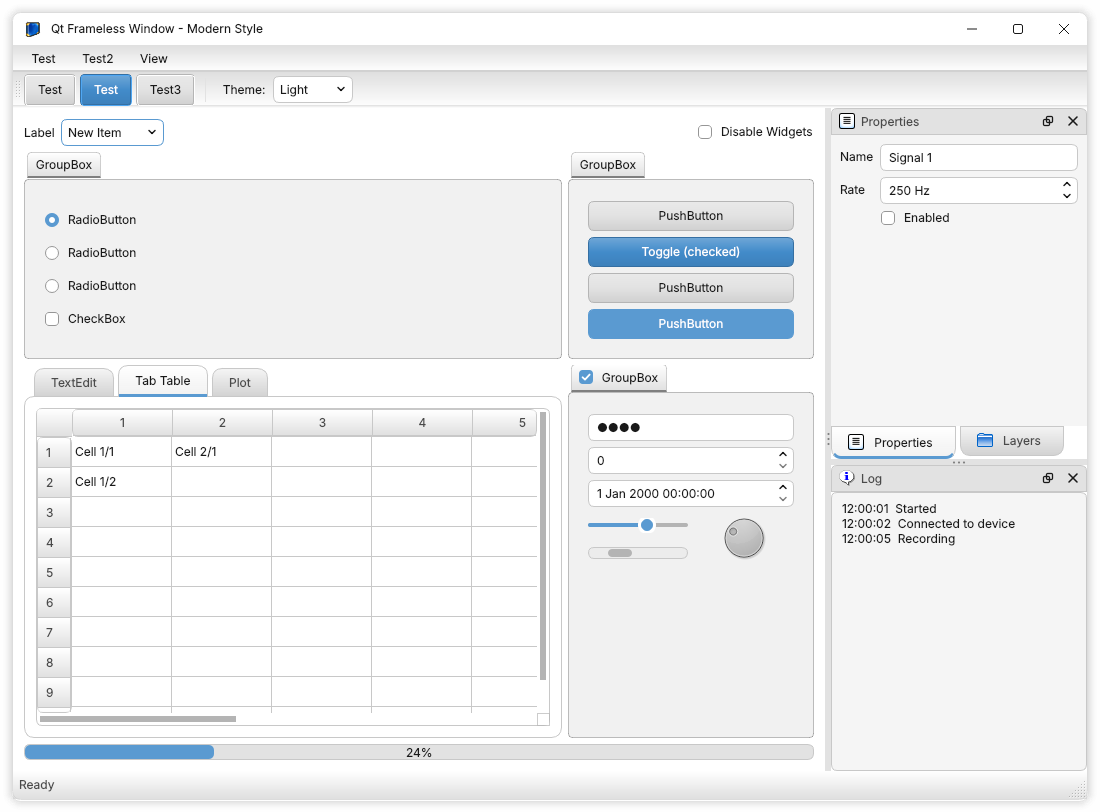
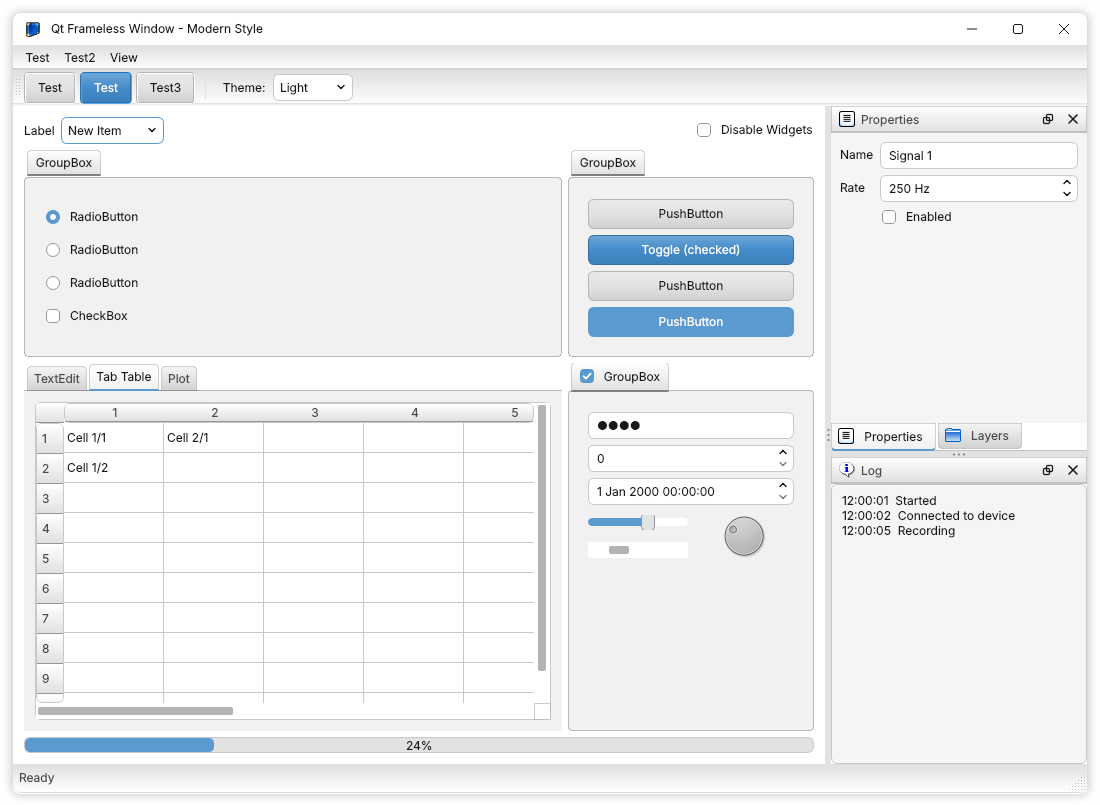
Match the application's dark style sheet more closely (with light versions)
The rules without an object name from the dark sheet, values as given for
dark, matching ones for light:
- Status bar: the top-down band. Menu bar items: padding 3px 4px, white
  text when hovered, highlight + darker side edges when open.
- Menus: square, palette(window) with a palette(shadow) border, item
  padding 3px 25px, highlight with a light-blue edge on the selected item,
  shaded disabled items, 18 px indicators, band behind checked icons.
- Tabs: 4 px corners, padding 4px 6px, band fills, 2 px highlight line
  under the selected tab (grey when disabled), unselected 2 px lower; pane
  and tab bar with a soft top/bottom line; tab bar at 3px/1px.
- Dock title bars (Qt's and DockTitleBar): the band with a 2 px edge;
  Qt's title buttons positioned as in the sheet.
- Trees/tables: alternate rows in the window colour, branch background
  base, disabled selection rgb(80,80,80); headers with a palette(dark)
  bottom line and 5 px side padding.
- Scroll bars: 16 px, base track, 2 px corners, handle margins as given,
  highlight on hover (handle kept in the lighter @groove grey).
- Sliders: rounded grey handle with a dark border, highlight left of it,
  base right of it, highlight on hover.
- Check boxes / radio buttons 18 px; dock separator 6 x 5 px.
Also fixes the tab pane's see-through fill being overridden.

Claude-Session: https://claude.ai/code/session_01Kn14e4JxntSWfujh7GdBDb

diff --git a/modernstyle/modernstyle.cpp b/modernstyle/modernstyle.cpp
@@ -224,6 +224,16 @@ QHash<QString, QString> themeFills(bool dark, const QHash<QString, QColor> &c)
         f["menuBarItemEdge"] = QStringLiteral("rgba(150, 150, 150, 160)");
     }
     f["checkedText"] = QStringLiteral("#ffffff");
+    // More values from the application's dark style sheet, with light
+    // counterparts
+    f["menuBorder"] = dark ? QStringLiteral("rgb(20, 20, 20)") : QStringLiteral("rgb(200, 200, 200)");   // palette(shadow) / Mid
+    f["menuSelectedEdge"] = QStringLiteral("rgba(147, 191, 236, 127)");
+    f["menuDisabledFill"] = dark ? QStringLiteral("rgba(35, 35, 35, 127)") : QStringLiteral("rgba(226, 226, 226, 127)");
+    f["pressedEdge"] = dark ? QStringLiteral("rgba(25, 25, 25, 127)") : QStringLiteral("rgba(25, 25, 25, 60)");
+    f["softLine"] = dark ? QStringLiteral("rgba(25, 25, 25, 50%)") : QStringLiteral("rgba(25, 25, 25, 25%)");      // tab bar / pane edge
+    f["tabSelectedEdge"] = dark ? QStringLiteral("rgba(66, 66, 66, 75%)") : QStringLiteral("rgba(226, 226, 226, 75%)");
+    f["disabledSelection"] = QStringLiteral("rgb(80, 80, 80)");      // palette Disabled Highlight
+    f["sliderHandleBorder"] = dark ? QStringLiteral("rgba(25, 25, 25, 255)") : QStringLiteral("rgb(150, 150, 150)");
     // Group boxes: border, and the line under the title tab (as the
     // application's style sheet)
     f["groupBorder"] = dark ? QStringLiteral("rgba(25, 25, 25, 127)") : QStringLiteral("rgba(25, 25, 25, 70)");
